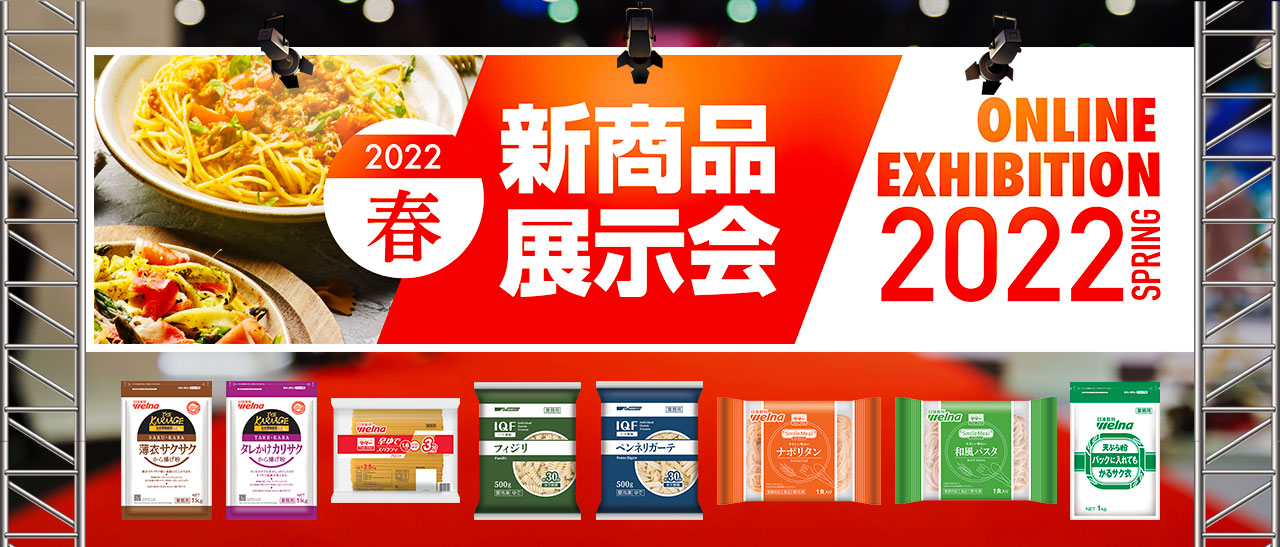
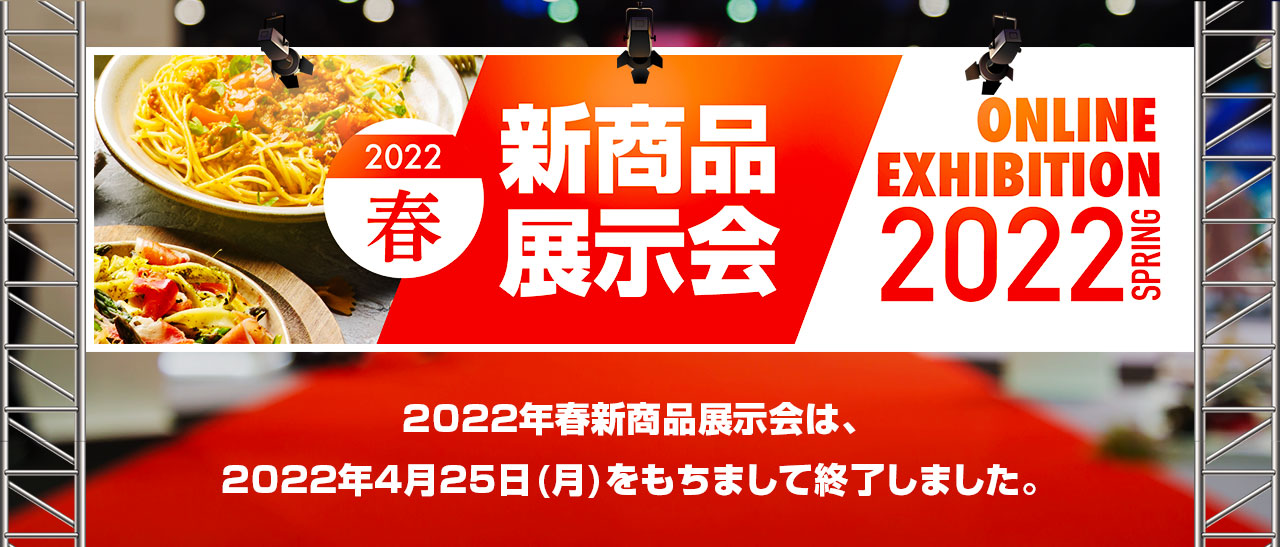
update hero image

Changed region(s): [[0.0938, 0.6837, 0.9062, 0.9634]]

diff --git a/nisshin_b2b/templates/products/category_list.html b/nisshin_b2b/templates/products/category_list.html
@@ -72,7 +72,7 @@
       <div class="mt-8 sm:mt-10 md:mb-10">
         <ul class="flex flex-wrap -mx-1 sm:-mx-2">
 
-            <li class="w-1/2 px-1 sm:px-2 mb-2 sm:mb-4">
+            <li class="w-full sm:w-1/2 px-1 sm:px-2 mb-2 sm:mb-4">
               <a href="{% url 'spring_2022' %}" class="block shadow-md wrap-image">
                 <div class="overflow-hidden">
                   <img src="{% static 'images/heros/hero_exhibit2022.jpg' %}" alt="">
